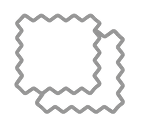
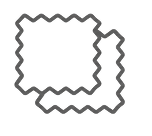
feat: implement 3D configurator UI with product customization and iframe communication

Changed region(s): [[0.0789, 0.0882, 0.8421, 0.8529]]

diff --git a/src/App.jsx b/src/App.jsx
@@ -66,7 +66,7 @@ export default function App() {
   };
 
   return (
-    <div className="flex flex-col lg:flex-row fixed inset-0 bg-white text-gray-900 font-sans overflow-hidden p-2 gap-2 lg:p-2 lg:gap-2">
+    <div className="flex flex-col lg:flex-row fixed inset-0 bg-white text-gray-900 font-sans overflow-hidden p-2 gap-3 lg:p-2 lg:gap-2">
       
       {/* LEFT: Viewer Area */}
       <div className="relative flex-1 lg:h-full lg:flex-1 min-h-0 bg-white flex flex-col items-center justify-center rounded-2xl shadow-sm border border-gray-100 overflow-hidden">
